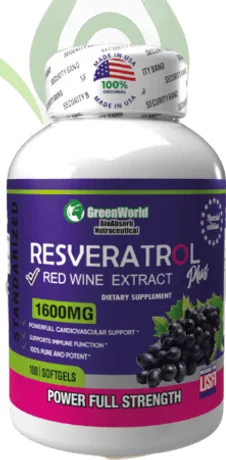
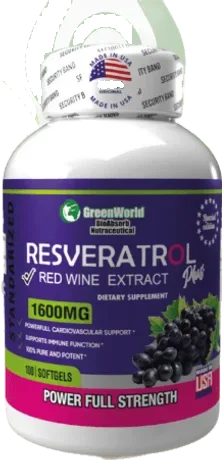
Quitar reflejos del hero y restos de hoja verde de los productos
Removido el -webkit-box-reflect (se veia recortado). Limpieza extra: borrado de pixeles verdes en la zona superior (hoja del Resveratrol y restos junto a la tapa en Magnesio/Calcio), respetando los logos verdes de marca.

diff --git a/styles.css b/styles.css
@@ -735,8 +735,8 @@ body.cart-open{overflow:hidden}
 
 .stage__glow{animation:pulseGlow 5s var(--ease-soft) infinite}
 
-/* productos con profundidad + reflejo */
-.hero__prod{-webkit-box-reflect:below 2px linear-gradient(transparent 56%,rgba(255,255,255,.22))}
+/* productos con profundidad */
+.hero__prod{-webkit-box-reflect:none}
 .hero__prod--main{animation:bob3dC 4.2s var(--ease-soft) infinite}
 .hero__prod--left{animation:bob3dL 5.2s var(--ease-soft) infinite}
 .hero__prod--right{animation:bob3dR 5.8s var(--ease-soft) .4s infinite}